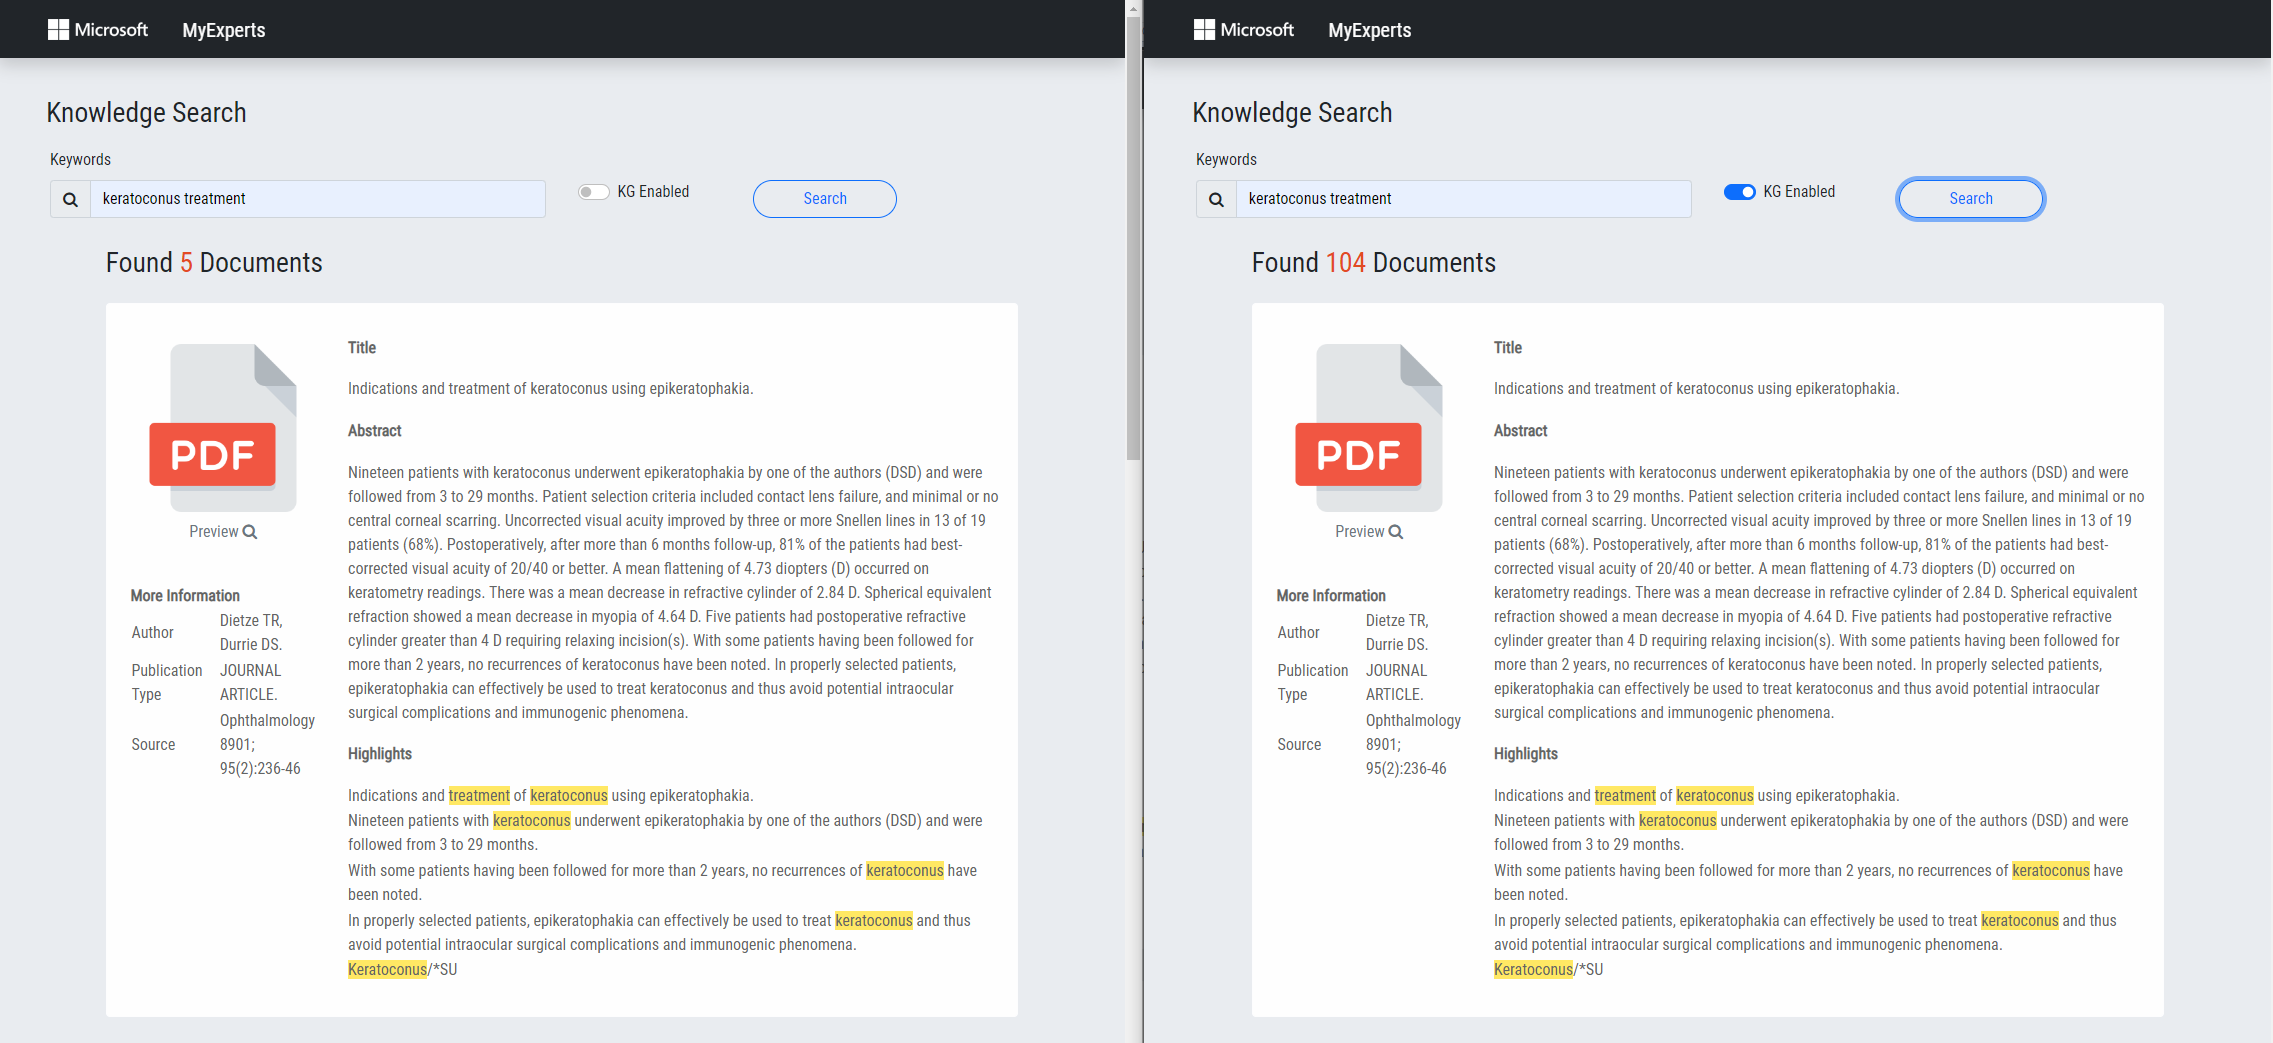
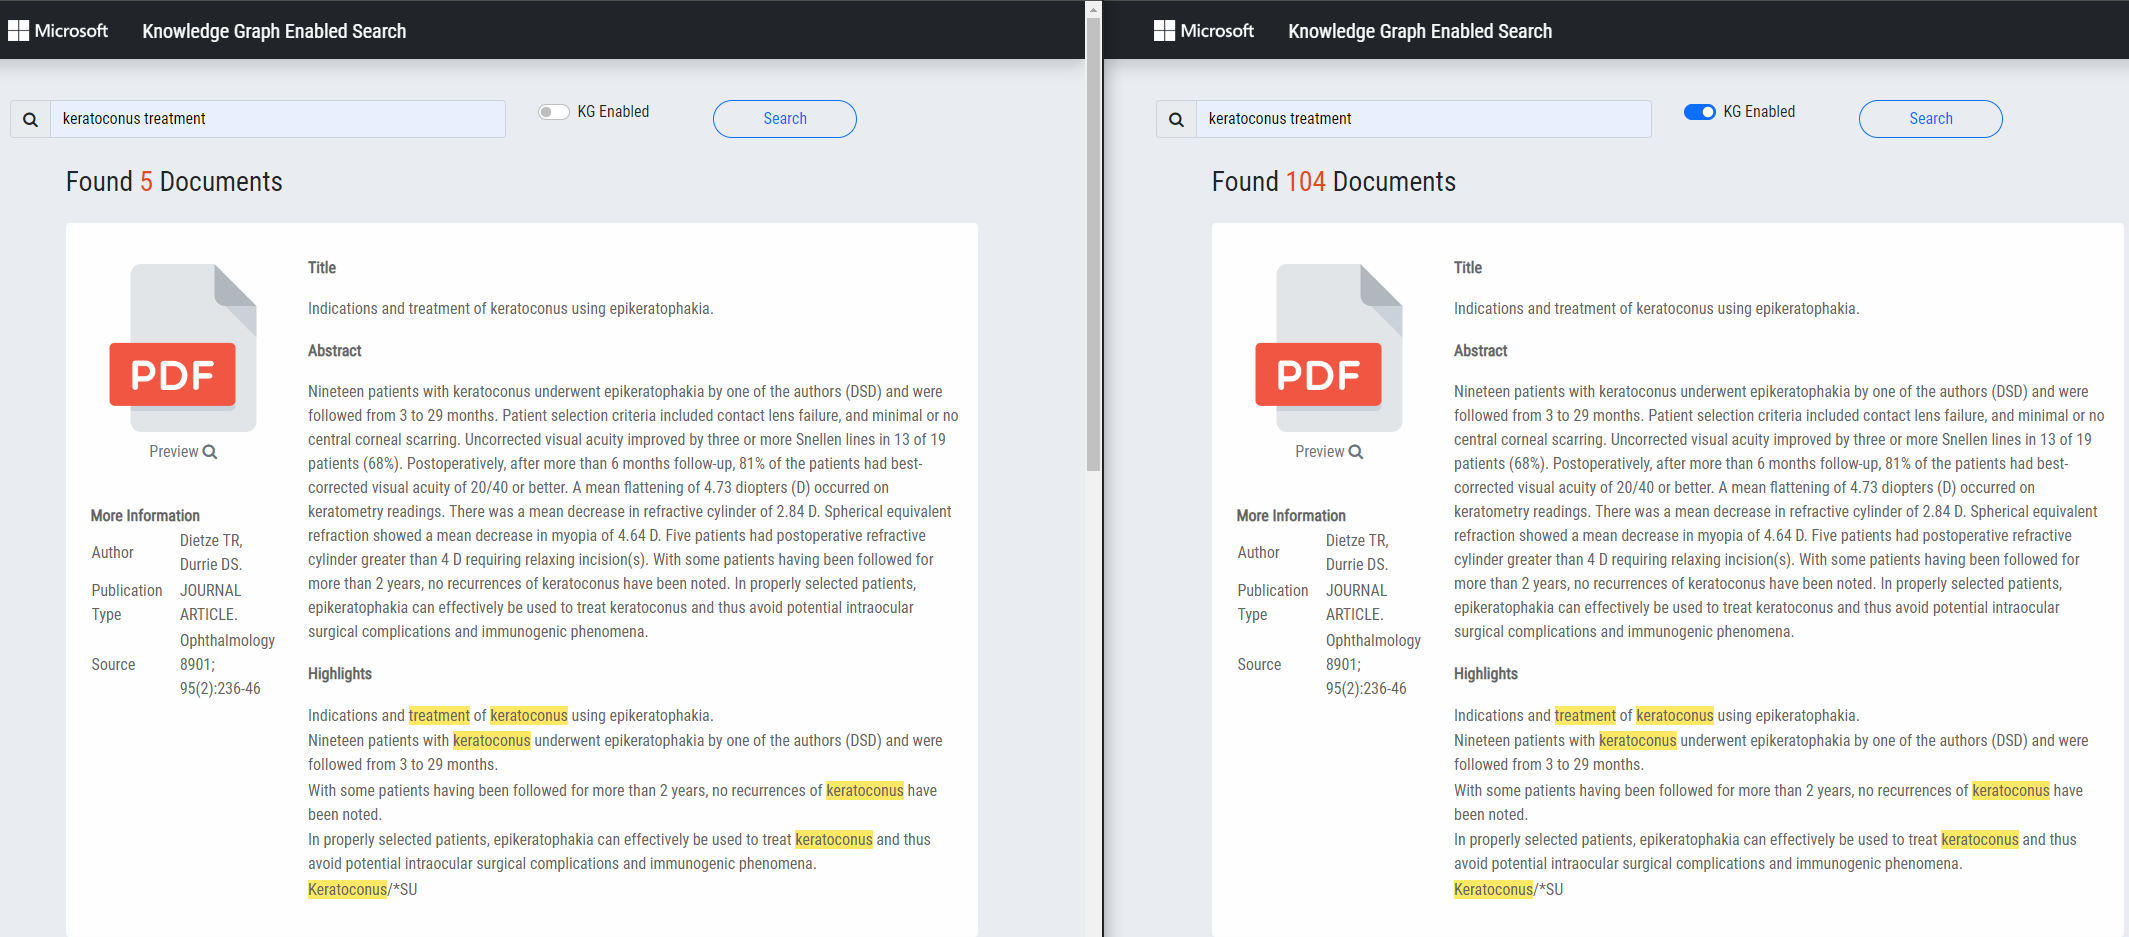
change home page of UI

diff --git a/ui/templates/index.html b/ui/templates/index.html
@@ -6,11 +6,11 @@
 <div class="container-fluid px-5">
 
   <!-- Filter -->
-  <div class="row">
+  <!-- <div class="row">
     <div class="col">
       <h3>Knowledge Search</h3>
     </div>
-  </div>
+  </div> -->
 
   <!-- Filter selectors -->
   <form action="">
@@ -18,7 +18,7 @@
 
       <!-- Filter 1 -->
       <div class="form-group col-lg-6 col-md-4 filters">
-        <label class="py-2">Keywords</label>
+        <!-- <label class="py-2">Keywords</label> -->
         <div class="input-group flex-nowrap">
           <span class="input-group-text" id="addon-wrapping"><i class="fa fa-search" aria-hidden="true"></i></span>
           <input type="text" id="form-keywords" name="form-keywords" class="form-control" placeholder="keywords" aria-label="search keywords"
@@ -27,7 +27,7 @@
       </div>
 
       <div class="col-lg-2 col-md-2 filters">
-        <label class="py-2">&nbsp;</label>
+        <!-- <label class="py-2">&nbsp;</label> -->
         <div class="form-check form-switch">
           <input class="form-check-input" type="checkbox" id="form-check" name="form-check" checked>
           <label class="form-check-label" for="form-check">
@@ -38,7 +38,7 @@
 
       <!-- Submit -->
       <div class="col-lg-2 col-md-2 filters">
-        <label class="py-2">&nbsp;</label>
+        <!-- <label class="py-2">&nbsp;</label> -->
         <div>
           <button id="search_btn" type="button"
             class="btn btn-block btn-outline-secondary rounded-pill w-100 pointer_disabled" disabled>Search</button>

diff --git a/ui/templates/template.html b/ui/templates/template.html
@@ -46,7 +46,7 @@
     <!-- Navbar logo -->
     <a class="navbar-brand logo pointer" href="/">
       <img src="../static/images/msft-large-white-xs.png">
-      <label class="pointer text-md align-middle">MyExperts</label>
+      <label class="pointer text-md align-middle">Knowledge Graph Enabled Search</label>
     </a>
 
     <!-- Navbar burger icon (responsive) -->
